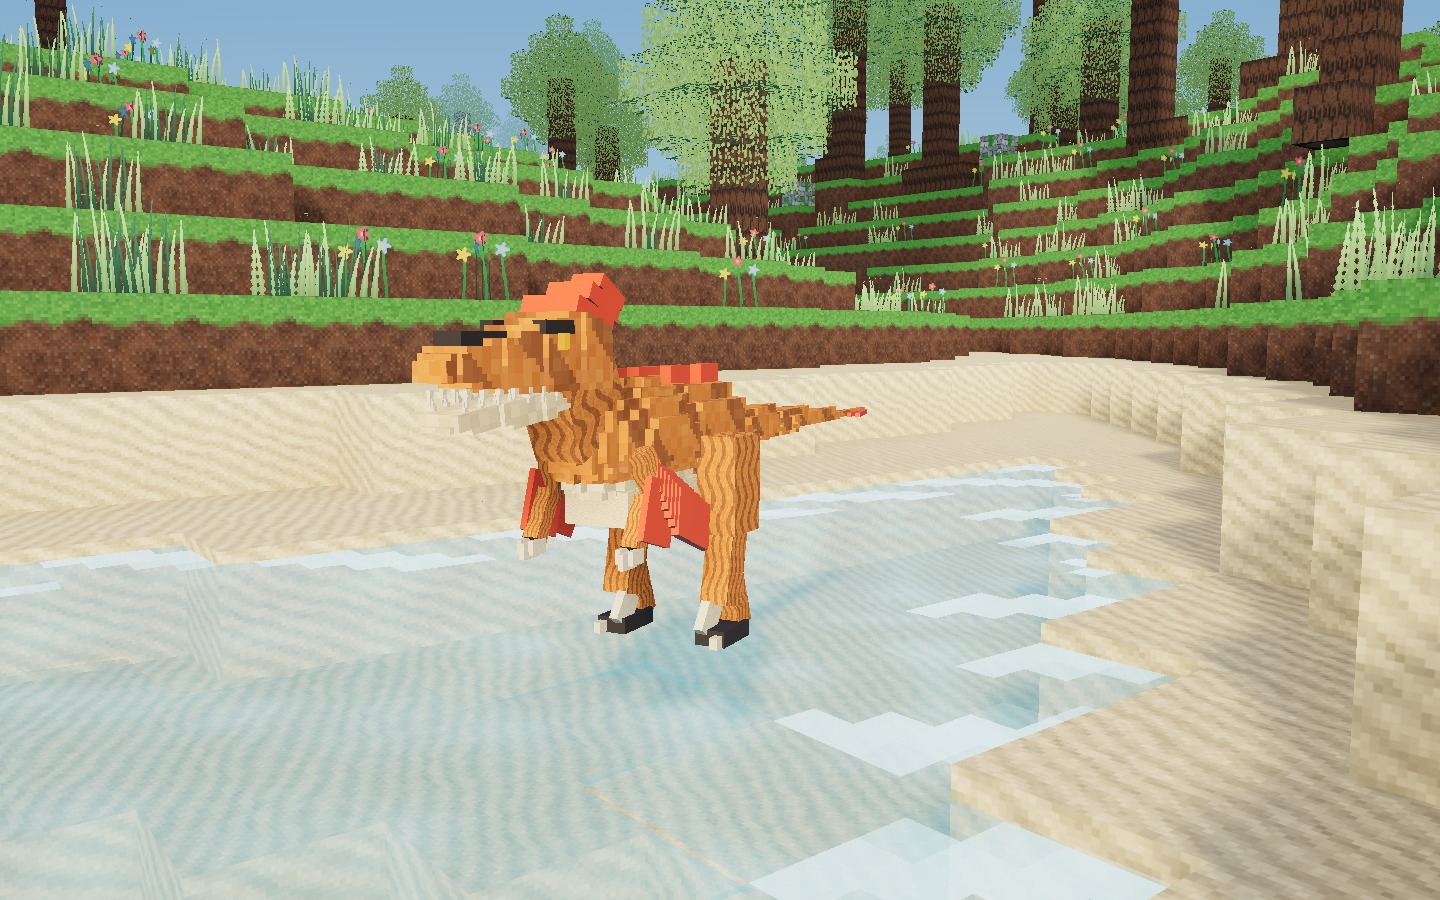
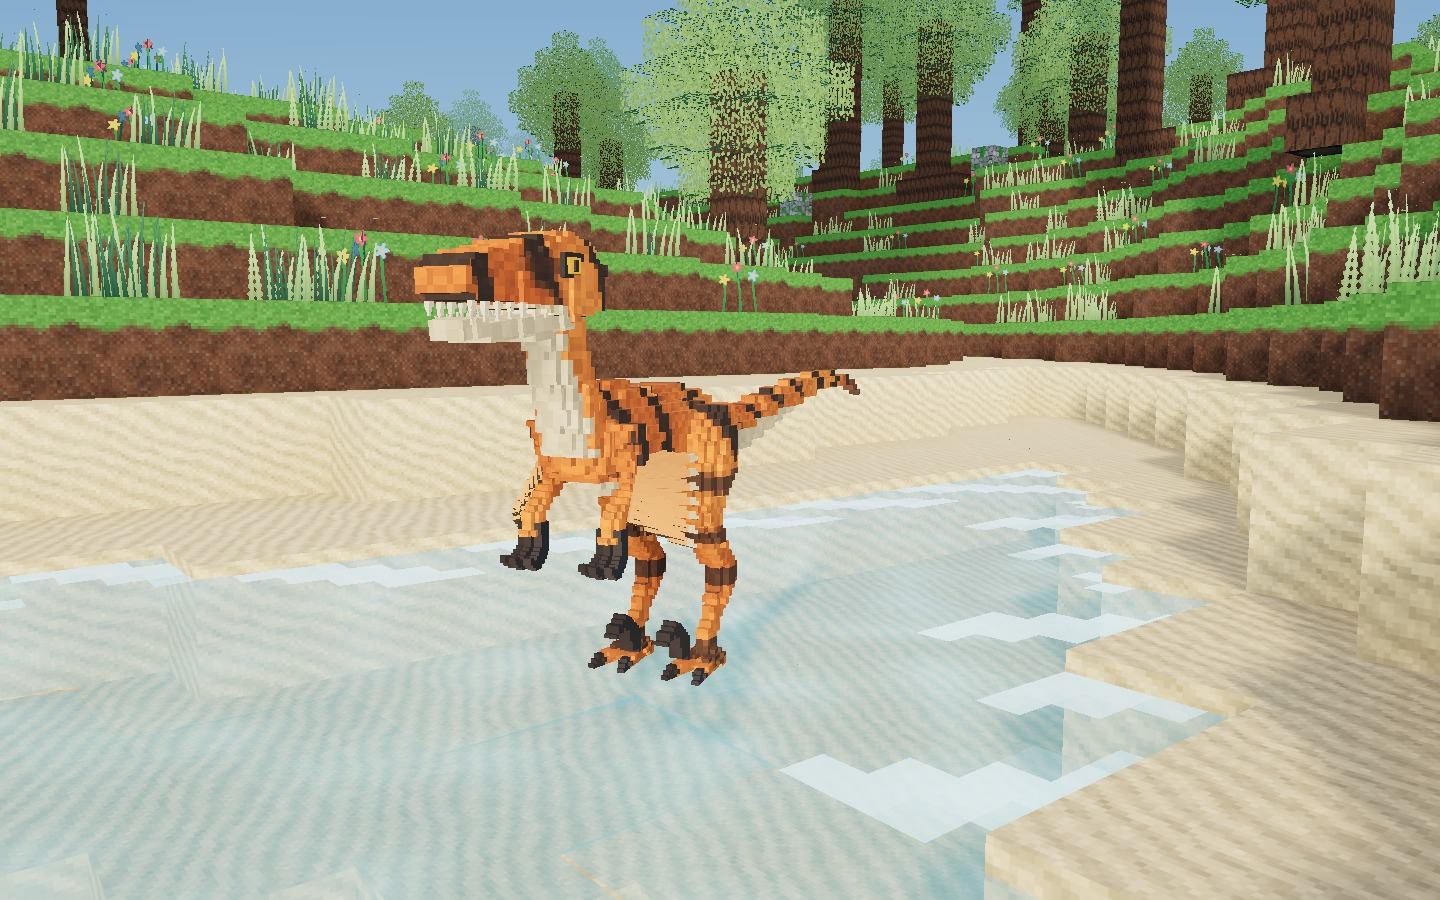
Refresh Primalith dinosaur photos from current game renderer [skip actions]

diff --git a/sites/primalith/README.md b/sites/primalith/README.md
@@ -16,6 +16,8 @@ O adaptador acrescenta os metadados da rota, o retorno para Games e os controles
 
 Preservar as licenças locais em `source/assets/licenses/`. As fotografias e os vídeos são capturas reais do jogo fornecidas pelo projeto Primalith-site.
 
+As três fotos `creature-*.jpg` foram recapturadas com o renderer real da versão 1.3.9 para mostrar as texturas atuais. `creature-captures.json` registra o commit, parâmetros e hashes. A captura usou uma cópia isolada do código já publicado; não alterou o jogo nem os saves do usuário. Seus URLs recebem o hash da imagem para evitar exibir fotos antigas do cache após uma atualização.
+
 O contador soma `download_count` dos instaladores publicados em todo o histórico, incluindo prévias e as versões antigas com o nome ArkCraft. Soma todos os pacotes completos de Mac e Windows, inclusive DMG e ZIP, sem contar ZIPs de atualização, blockmaps ou rascunhos. Downloads repetidos contam novamente; não é um contador de pessoas únicas. Paginação e deduplicação por asset evitam limitar a soma à versão atual ou à primeira página.
 
 `download-stats.js` consulta a API pública sem token, com cache local de cinco minutos. Se a consulta completa falhar, usa o total verificado mais recente do cache ou do snapshot, identificado na interface. Nunca apresenta uma soma parcial como total. `node scripts/update-primalith-downloads.mjs` atualiza o snapshot a partir do GitHub; não exige Actions nem precisa rodar a cada release.
